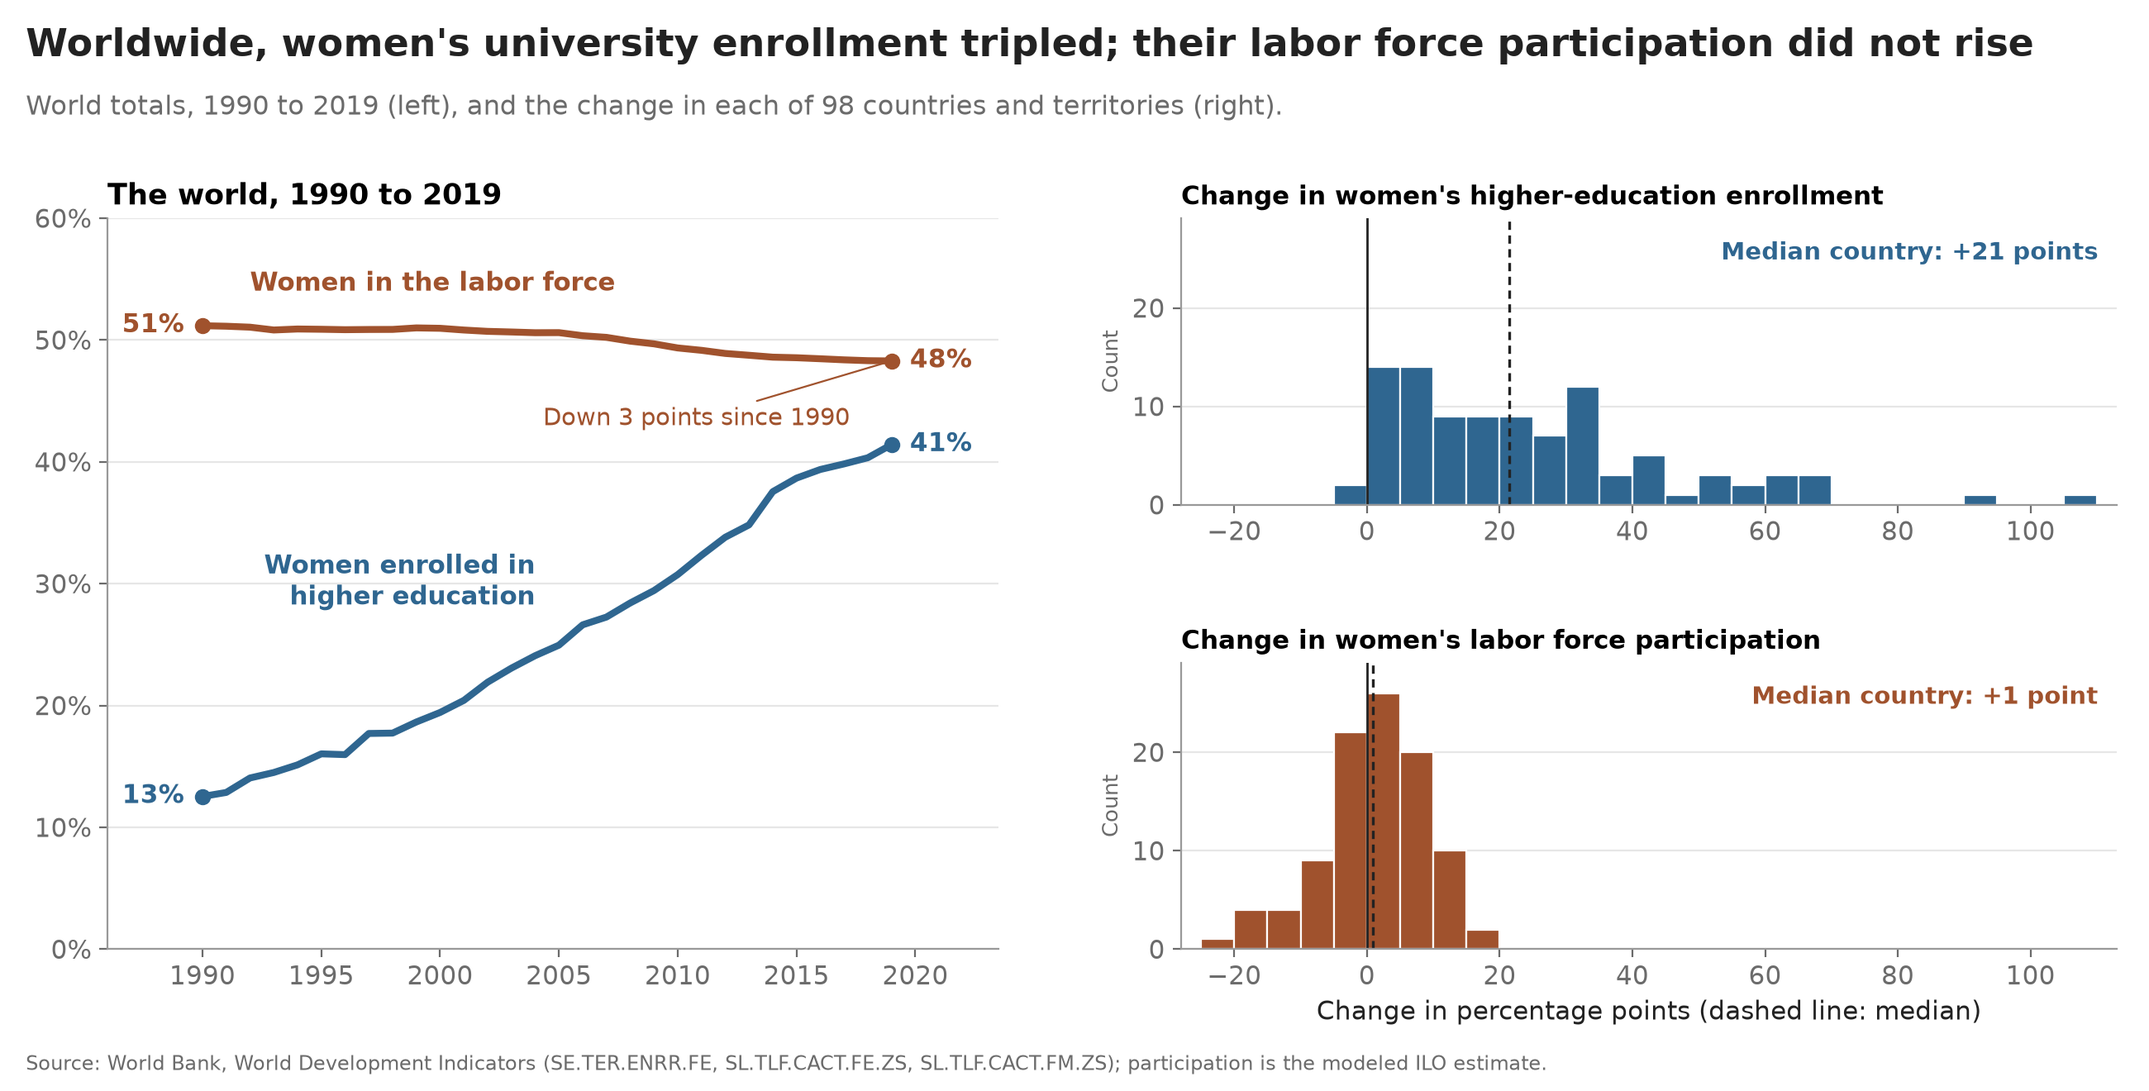
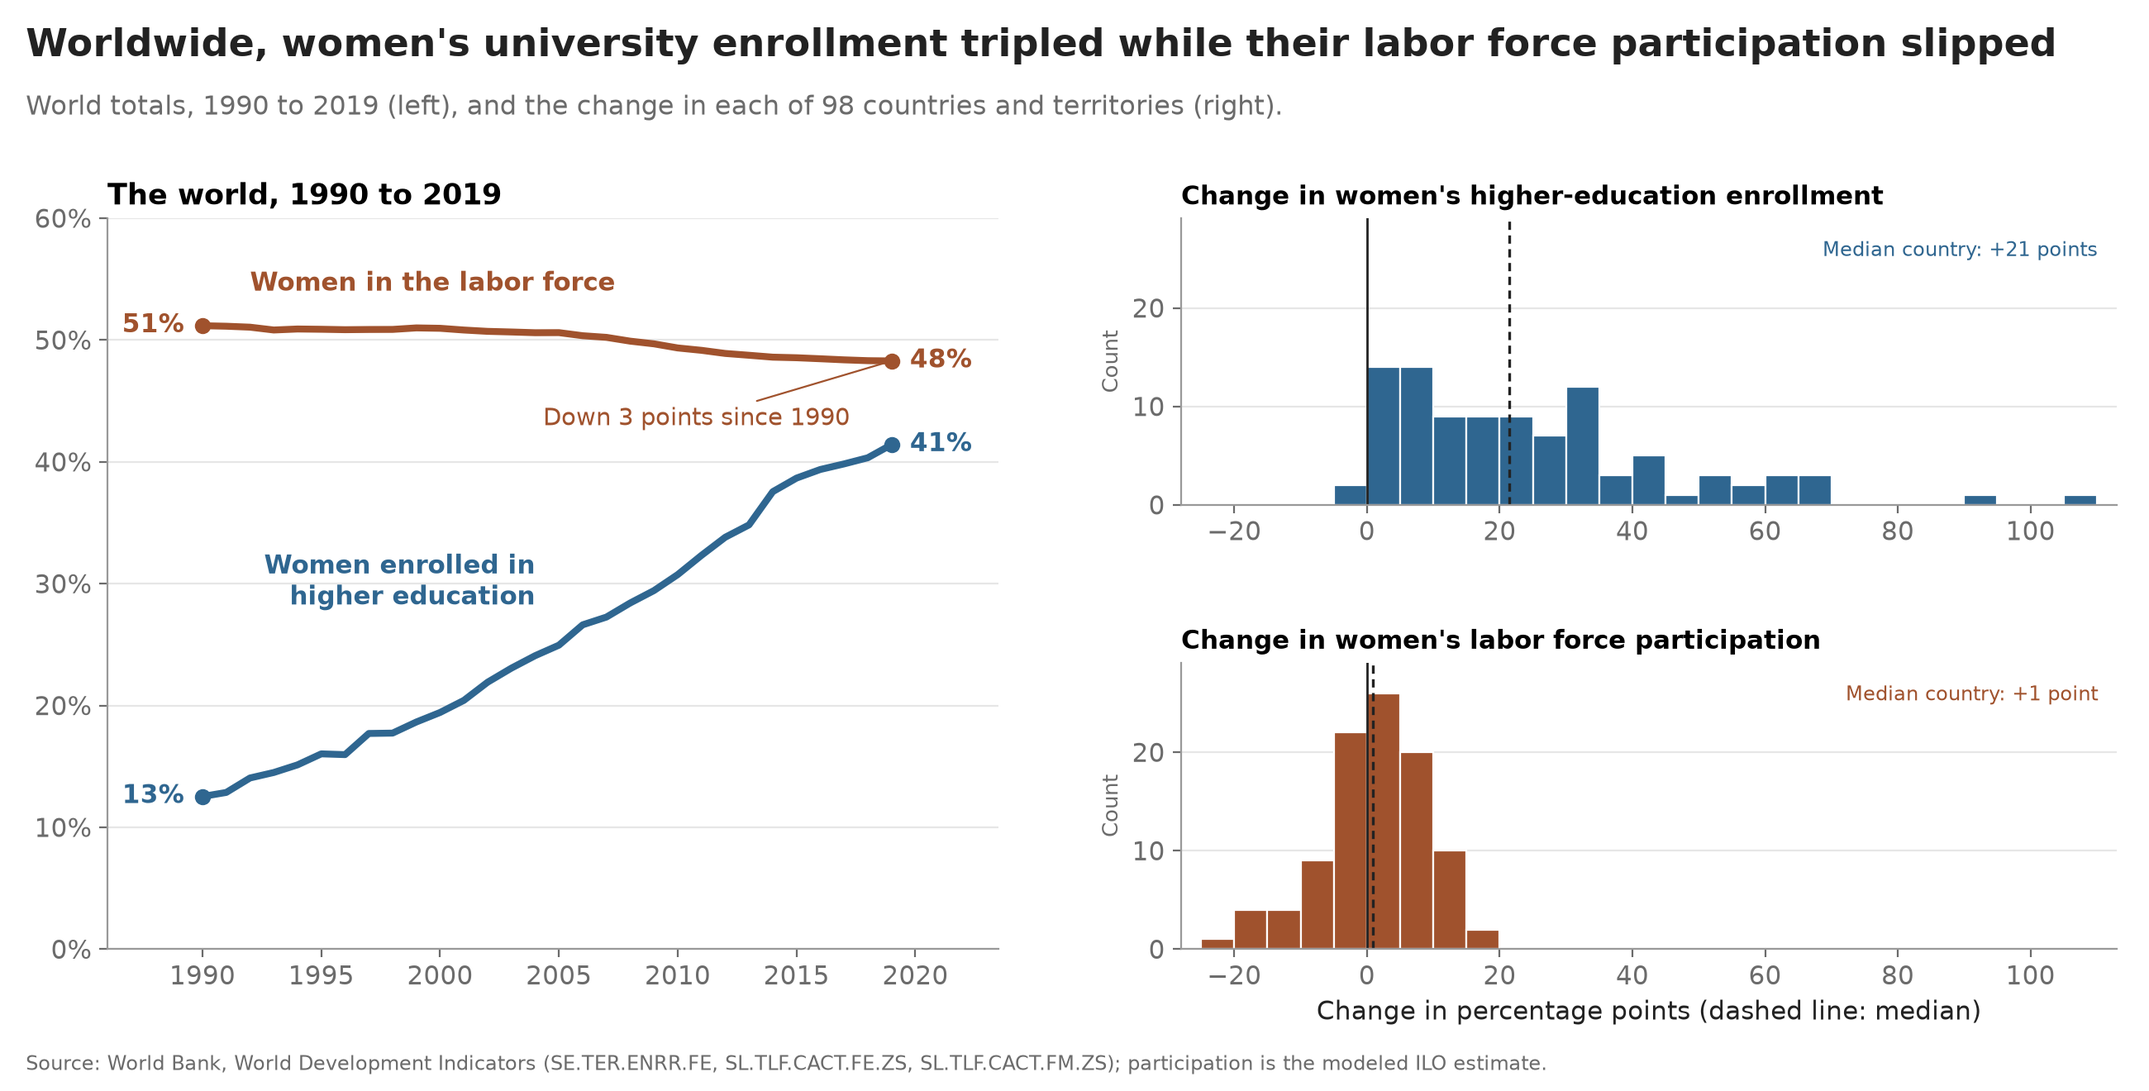
Project 2: final polish (title wording, quieter median callouts, real trade-offs per decision, tighter dataset notes)

Changed region(s): [[0.4985, 0.0311, 0.9658, 0.0621], [0.81, 0.6212, 0.9969, 0.6523], [0.81, 0.2174, 0.9969, 0.2485]]

diff --git a/projects/project2-women-work/index.html b/projects/project2-women-work/index.html
@@ -194,25 +194,19 @@
             <p>
                 Dataset: the course's
                 <a href="https://github.com/light-and-salt/World-Bank-Data-by-Indicators">Human Development
-                Indicators, 1960-2020</a> dataset, taken from its source, the World Bank World Development Indicators.
-                We fetched the years 1990 to 2019 from the
+                Indicators, 1960-2020</a> dataset, from the World Bank World Development Indicators. We fetched 1990
+                to 2019 from the
                 <a href="https://datahelpdesk.worldbank.org/knowledgebase/articles/889392">World Bank Indicators API</a>
-                on 21 October 2026 (Pacific time) and cached them in a data/ folder, which is not part of the published
-                site. Running <a href="make_charts.py">make_charts.py</a> reuses that cache, and fetches the indicators again only when it is missing. The
-                indicators are female gross tertiary enrollment (SE.TER.ENRR.FE), female labor force participation,
-                ages 15 and over (SL.TLF.CACT.FE.ZS), and the ratio of the female to the male labor force
-                participation rate (SL.TLF.CACT.FM.ZS).
+                on 21 October 2026 (Pacific time) into a cache, which <a href="make_charts.py">make_charts.py</a>
+                reuses and refills only when it is missing. The indicators are SE.TER.ENRR.FE (female gross tertiary
+                enrollment), SL.TLF.CACT.FE.ZS (female labor force participation, ages 15 and over) and
+                SL.TLF.CACT.FM.ZS (female to male participation ratio).
             </p>
 
             <p>
-                Sample: the world lines use the World Bank's own world aggregate. The per-country panels in both
-                figures keep only the economies that report all three indicators in some year from 1990 to 2000 and
-                again in some year from 2014 to 2019, and use each one's earliest and latest such years. Of the 187
-                countries and territories with participation data, 98 pass this test; the other 89 lack enrollment
-                data in one of the two windows and are dropped, including Brazil, Japan, Germany, France, Italy,
-                Nigeria and Australia. The dropped economies are disproportionately high-income (46 of the 89,
-                against 17 of the 98 retained), so the sample leans towards middle-income countries. The 98 include
-                one territory (West Bank and Gaza), so we refer to them as countries and territories.
+                Sample: the world lines use the World Bank's own world aggregate. The per-country panels keep the 98
+                countries and territories that report all three indicators in some year from 1990 to 2000 and in some
+                year from 2014 to 2019. The other 89 lack data in one window and are dropped.
             </p>
 
             <section>
@@ -246,16 +240,14 @@
                         university-age cohort (and can exceed 100%), whilst participation is measured against all women
                         aged 15 and over. Two different measures on one scale invite a comparison of levels, and the gap
                         then looks like one series failing to follow the other. The opposing chart draws its two measures in
-                        separate, separately titled panels and scores +1.5. Alternative considered: two separate panels,
-                        which we rejected because the gap between the two lines reads far less directly.
+                        separate, separately titled panels and scores +1.5. A pair of separate panels would have removed the false comparison of levels, but the gap between the two lines then reads far less directly, and that gap is what carries the claim, so we kept the shared axis.
                     </li>
                     <li>
                         <strong>Women's own participation rate instead of the female-to-male ratio (score: -1.5).</strong> We measure work with the female participation rate and never show the ratio of the female to the
                         male rate. Over the same period the world ratio rose from 66.9 to 68.2, because men's
                         participation fell faster than women's, so by the relative measure women did gain ground. A reader
-                        cannot notice the absence of the alternative, so we score this as clearly deceptive. It mirrors
-                        the measure choice in the opposing chart and receives the same score. Alternative considered:
-                        plotting the ratio, which we rejected because it weakens the case that work did not improve.
+                        cannot notice the absence of the alternative, so we score this as clearly deceptive, the same as the
+                        matching choice in the opposing chart. Plotting the female-to-male ratio would have been the fairer measure of the gender gap, since it captures men's participation falling too, but it shows the world gaining, which undoes the point of the chart, so we kept the women's own rate.
                     </li>
                     <li>
                         <strong>Paired histograms of per-country change on one shared axis (score: +1).</strong> For each of the 98 countries and territories we compute the percentage-point change in enrollment
@@ -263,24 +255,21 @@
                         x-axis, with zero and the median marked. The persuasion comes from the contrast in spread: the
                         enrollment distribution stretches far to the right whilst the participation distribution stays
                         piled around zero. We score this as earnest, because it shows every retained country rather than
-                        chosen examples. Alternative considered: one scatter plot of the two changes, which we rejected
-                        because it shows the difference in spread less directly.
+                        chosen examples. A single scatter plot of the two changes would have shown how each country moved on both measures at once. With 98 overlapping points, however, the difference in spread is harder to see at a glance, so we kept the stacked histograms.
                     </li>
                     <li>
                         <strong>Median callouts in place of a fuller summary (score: -1).</strong> The two histograms carry only "Median country: +21 points" and "Median country: +1 point", which
                         invites the reader to set 21 against 1 and read the second as stagnation. In fact 58 of the 98
                         raised women's participation, by as much as 17.2 points, whilst 40 saw it fall. Both medians are
                         accurate, but nothing on the chart shows that a majority of countries gained, and these counts
-                        appear only in this write-up. Alternative considered: printing the count of gaining countries on
-                        each panel, which we rejected because it softens the contrast.
+                        appear only in this write-up. Printing the count of gaining countries on each panel would have told the reader at once that most countries gained. It would also have blunted the contrast between 21 and 1, so we left the counts for this write-up.
                     </li>
                     <li>
-                        <strong>Title framed on the world aggregate (score: -0.5).</strong> The title, "Worldwide, women's university enrollment tripled; their labor force participation did
-                        not rise", is accurate for the world lines it opens with (13% to 41%, and 51% to 48%) and uses
-                        calm language. It nevertheless frames the whole figure around the world totals, whereas the median
+                        <strong>Title framed on the world aggregate (score: -0.5).</strong> The title, "Worldwide, women's university enrollment tripled while their labor force participation
+                        slipped", is accurate for the world lines it opens with (13% to 41%, and 51% to 48%) and uses
+                        calm language. The slant comes only from framing the whole figure on the world totals, whereas the median
                         country in the right-hand panel gained one point. We score this as only mildly deceptive, since
-                        the statement is true and the median callout shows that one-point gain. Alternative considered: a
-                        title naming the median country change, which we rejected because it is less striking.
+                        the statement is true and the median callout shows that one-point gain. A title naming the median country change would have been the more representative of the right-hand panel. It is a flatter sentence and would not have led the reader through the world lines first, so we kept the world framing.
                     </li>
                 </ul>
             </section>
@@ -294,7 +283,7 @@
                             src="against_education_did_pay.png"
                             width="2600"
                             height="1320"
-                            alt="Left: two small slope panels on one 0 to 80% scale for the 25 countries and territories with the largest rise in women's enrollment; median enrollment rises from 20.5% to 71.7% and the median female-to-male participation ratio from 54.5% to 70.4%. Right: dot plot of 98 countries and territories split into four equal groups by the rise in women's enrollment (-4.5 to +8.5, +8.7 to +21.2, +21.6 to +33.9 and +34.1 to +105.7 points); the median change in the female-to-male participation ratio is +1.3, +3.4, +4.3 and +8.8 points, and bands show the middle half of each group. Start (1990 to 2000) and End (2014 to 2019) mark each axis. Callouts read: +51.2 points and +15.9 points on the left; top group's lower quartile: +3.5 points on the right."
+                            alt="Left: two small slope panels on one 0 to 80% scale for the 25 countries and territories with the largest rise in women's enrollment; median enrollment rises from 20.5% to 71.7% and the median female-to-male participation ratio from 54.5% to 70.4%. Right: dot plot of 98 countries and territories split into four equal groups by the rise in women's enrollment (-4.5 to +8.5, +8.7 to +21.2, +21.6 to +33.9 and +34.1 to +105.7 points); the median change in the female-to-male participation ratio is +1.3, +3.4, +4.3 and +8.8 points, and bands show the middle half of each group. Start (1990 to 2000) and End (2014 to 2019) mark each axis. Callouts read: +51.2 points and +15.9 points on the left."
                         />
                     </a>
                     <figcaption>
@@ -317,40 +306,33 @@
                         <strong>Opening with the largest-rise group (score: -1).</strong> The left panels show only the 25 countries and territories whose enrollment rose most. Their median
                         enrollment rises from 20.5% to 71.7% (+51.2 points) and the median participation ratio from 54.5%
                         to 70.4% (+15.9 points). The pattern is strongest in this group, so showing it first makes the
-                        step from education to work look direct. The group is named in the heading, but a reader who stops
-                        at the left panels sees the best case as though it were typical. Alternative considered: opening
-                        with all 98 countries, which we rejected because the pattern is weaker.
+                        step from education to work look direct. A reader who stops
+                        at the left panels sees the best case as though it were typical. Opening with all 98 countries and territories would have been more representative and would have spared the reader a best case, but the pattern is weaker there, so we opened with the strongest group and named it in the heading.
                     </li>
                     <li>
                         <strong>Two small panels on one 0 to 80% scale (score: +1.5).</strong> Enrollment and the participation ratio are different measures, so we draw them in separate,
                         separately titled panels. Both share a 0 to 80% scale starting at zero, so the two changes can be
                         compared in size, whilst the separate titles make clear that the levels are not comparable. This is
                         what distinguishes it from the single overlaid axis in the supporting chart (-1), so we regard it as
-                        earnest. Alternative considered:
-                        two crossing lines on one plot, which we rejected because they invite a comparison of levels that
-                        means nothing.
+                        earnest. Two lines crossing on one plot would have been compact and would have shown the timing of both changes together. They also invite a comparison of levels that means nothing for two different measures, so we chose separate panels.
                     </li>
                     <li>
                         <strong>The female-to-male participation ratio instead of women's own rate (score: -1.5).</strong> We measure work with the ratio of the female to the male participation rate, which rose in 65 of
-                        the 98, and never show women's own participation rate. The ratio is a defensible measure of the
-                        gender gap and is defined in the caption. It can rise simply because men's participation falls,
-                        however, and the world female rate declined from 51% to 48% over the same years. Hiding the
+                        the 98, and never show women's own participation rate. It is a defensible measure of the
+                        gender gap and is defined in the caption, but it can rise simply because men's participation falls,
+                        and the world female rate declined from 51% to 48% over the same years. Hiding the
                         alternative is the same omission as in the supporting chart, so it receives the same score.
-                        Alternative considered: showing women's own rate beside the ratio, which we rejected because it
-                        weakens the conclusion.
+                        Showing women's own rate beside the ratio would have given a fuller and more honest account of work. The two measures disagree, which complicates the conclusion, so we kept only the ratio.
                     </li>
                     <li>
                         <strong>Group medians with middle-half bands (score: -1.5).</strong> We split the 98 into four equal groups by enrollment gain and plot each group's median change in
                         the ratio (+1.3, +3.4, +4.3 and +8.8 points) as a dot, with a band covering its middle half. The
-                        bands look rigorous, yet they hide the tails (individual changes run from -27.3 to +33.6 points).
-                        Across all 98 the relationship is weak: the correlation between the two changes is 0.18 (Pearson)
-                        and 0.24 (Spearman). These figures appear only in this write-up, as does the share of each group
+                        bands look rigorous, yet they hide the tails (individual changes run from -27.3 to +33.6 points), and across all 98 the correlation between the two changes is only 0.18 (Pearson)
+                        and 0.24 (Spearman), figures that appear only in this write-up, as does the share of each group
                         whose ratio rose (60%, 54%, 71% and 80%), so a smaller share of the second group rose than of the
-                        first (54% against 60%). The only callout marks the lower quartile of the top group (+3.5 points),
-                        the one band wholly above zero, and the top group spans far more of the enrollment range than the
-                        other three. Because the chart announces none of this, we score it as clearly deceptive.
-                        Alternative considered: a scatter of all 98 countries, which we rejected because it would show the
-                        weak correlation.
+                        first (54% against 60%). The top group is the only one whose middle half lies wholly above zero (+3.5 at its lower
+                        quartile), which the chart does not mark and this write-up notes, and it spans far more of the enrollment range than the
+                        other three. We score it as clearly deceptive because the chart announces none of this. A scatter of all 98 countries would have shown the weak 0.18 correlation honestly, but at 98 overlapping points it is hard to read at a glance, which is also why we chose group medians.
                     </li>
                     <li>
                         <strong>Title framed as an association (score: -0.5).</strong> The title, "Where women's enrollment rose more, the gender gap in labor force participation
@@ -358,8 +340,7 @@
                         to infer that education caused the narrowing, which cross-country data cannot show, and "the gap
                         narrowed" does not say whether women rose or men fell. We score this as mildly deceptive, since
                         the wording is literally accurate and the subtitle states that the comparison is between medians.
-                        Alternative considered: a title stating only that the medians differ by group, which we rejected
-                        because it is less persuasive.
+                        A title stating only that the medians differ by group would have been the more cautious wording and harder to read as causal. It is also flatter and less persuasive as a headline, so we kept the association wording.
                     </li>
                 </ul>
             </section>

diff --git a/projects/project2-women-work/make_charts.py b/projects/project2-women-work/make_charts.py
@@ -144,7 +144,7 @@ def chart_for(df: pd.DataFrame, ch: pd.DataFrame) -> dict:
     fig = plt.figure(figsize=(13, 6.6), dpi=200)
     gs = fig.add_gridspec(2, 2, width_ratios=[1, 1.05], wspace=0.2, hspace=0.55,
                           left=0.05, right=0.985, top=0.80, bottom=0.13)
-    headline(fig, "Worldwide, women's university enrollment tripled; their labor force participation did not rise",
+    headline(fig, "Worldwide, women's university enrollment tripled while their labor force participation slipped",
              f"World totals, 1990 to 2019 (left), and the change in each of {n} countries and territories (right).")
 
     # Left: world trend, both series on one percent axis.
@@ -193,7 +193,7 @@ def chart_for(df: pd.DataFrame, ch: pd.DataFrame) -> dict:
         a.axvline(med, color=INK, lw=1.2, ls=(0, (3, 2)))
         a.set_title(title, fontsize=11.2)
         a.text(0.98, 0.92, label, transform=a.transAxes, ha="right", va="top", color=color,
-               fontsize=10.5, fontweight="bold")
+               fontsize=8.5)
         a.grid(axis="y", color=GRID)
         a.set_xlim(bins[0] - 3, bins[-1] + 3)
         a.set_ylabel("Count", color=MUTED, fontsize=9.5)
@@ -269,9 +269,6 @@ def chart_against(df: pd.DataFrame, ch: pd.DataFrame) -> dict:
         ax2.annotate(f"{r.med:+.1f}", (i, r.med), xytext=(13, 0), textcoords="offset points", ha="left",
                      va="center", fontsize=12.5, fontweight="bold", color=WORK,
                      bbox=dict(boxstyle="square,pad=0.15", fc="white", ec="none"))
-    last = grp.iloc[-1]
-    ax2.text(len(grp) - 1, last.p25 - 0.8, f"Top group's lower\nquartile: {last.p25:+.1f} points", ha="center",
-             va="top", fontsize=10, color=WORK)
     ax2.set_xticks(x)
     ax2.set_xticklabels([f"{r.lo:+.1f} to {r.hi:+.1f}" for _, r in grp.iterrows()], color=EDU, fontsize=10)
     ax2.tick_params(axis="x", length=0)
